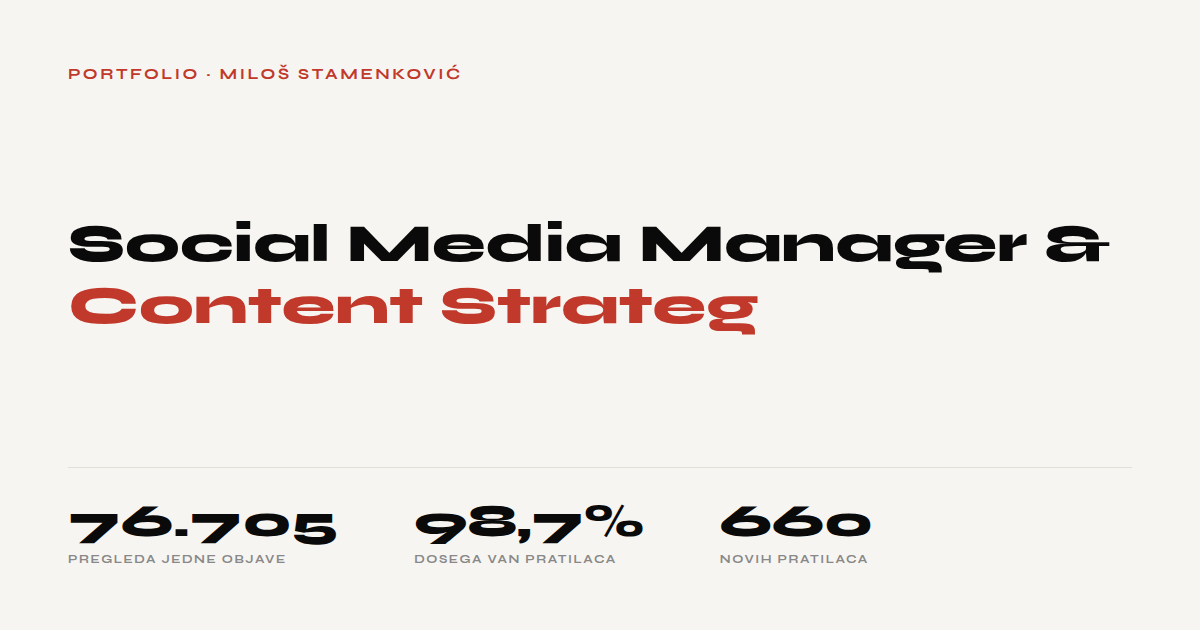
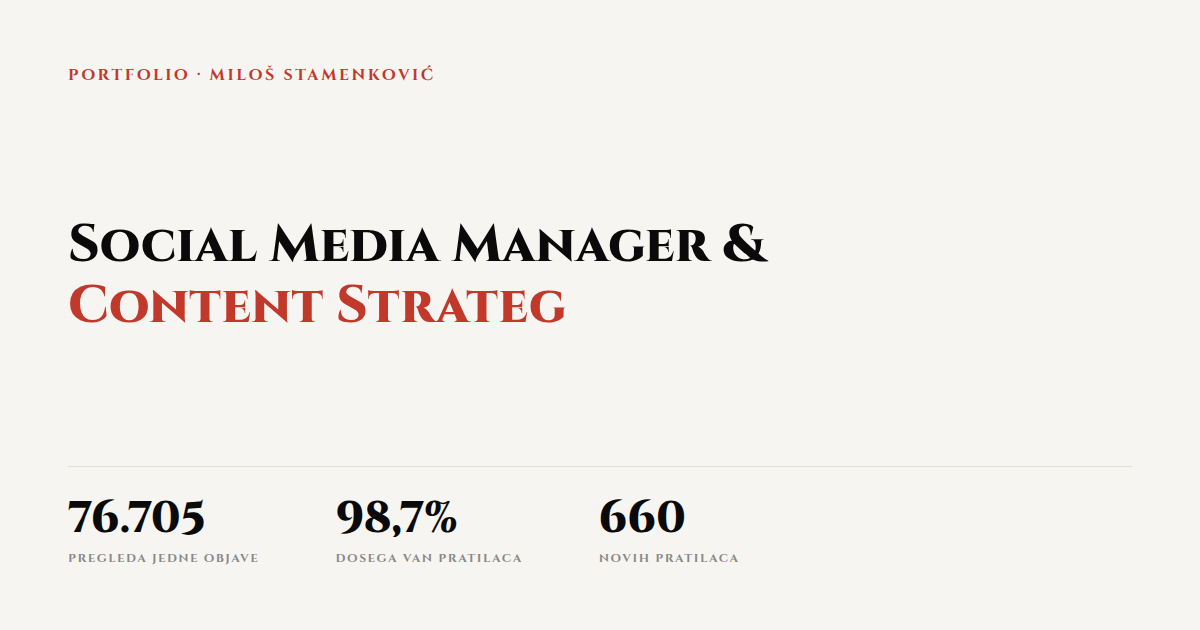
feat: font naslova Syne -> Cinzel
Odluka vlasnika sajta posle pregleda punog rendera, ne samo hero-a.

- layout.tsx: Cinzel (700, 800) sa subsets ['latin', 'latin-ext'].
  latin-ext je obavezan — sam latin ne nosi c c s z dj i dijakritike bi
  padale u fallback usred reci. Provereno glif po glif: svih 18 srpskih
  znakova se renderuje u Cinzelu, nijedan u fallbacku.
- CSS promenljiva --font-syne -> --font-display, fallback stack
  "var(--font-display), Cinzel, serif". Preimenovano u 12 fajlova +
  globals.css; u kodu nije ostala nijedna referenca na Syne, jer bi
  inace kod lagao o sebi.
- public/og.png regenerisan u Cinzelu — inace bi link preview pokazivao
  jedan font a sajt drugi.
- CLAUDE.md: zapisano da je Cinzel svesna odluka, da je obavezan
  latin-ext, i da gubitak kontrasta na mikro-labelama (eyebrow, badge,
  stat-label, pilule, nav) nije bug nego prihvacena posledica toga sto
  Cinzel nema mala slova — da se ne "popravlja" vracanjem na sans-serif.

Provereno: build prolazi, nula overflow-a na 375px i 1440px, case slika
se ucitava, nula dijakritika u fallbacku.

Claude-Session: https://claude.ai/code/session_0178xDF7jtNgtmNz2Xb6VQxf

diff --git a/components/sections/Work.tsx b/components/sections/Work.tsx
@@ -181,7 +181,7 @@ function FeaturedCard({ p, i }: { p: Project; i: number }) {
       <p className="badge">{p.badge}</p>
       <h3
         style={{
-          fontFamily: 'var(--font-syne), Syne, sans-serif',
+          fontFamily: 'var(--font-display), Cinzel, serif',
           fontWeight: 800,
           fontSize: 'clamp(18px, 4.6vw, 26px)',
           color: '#fff',
@@ -196,7 +196,7 @@ function FeaturedCard({ p, i }: { p: Project; i: number }) {
           fontSize: 11,
           color: 'rgba(255,255,255,0.38)',
           marginBottom: 20,
-          fontFamily: 'var(--font-syne), Syne, sans-serif',
+          fontFamily: 'var(--font-display), Cinzel, serif',
           letterSpacing: '0.06em',
           textTransform: 'uppercase',
         }}
@@ -265,7 +265,7 @@ function FeaturedCard({ p, i }: { p: Project; i: number }) {
       <p
         style={{
           fontSize: 9,
-          fontFamily: 'var(--font-syne), Syne, sans-serif',
+          fontFamily: 'var(--font-display), Cinzel, serif',
           fontWeight: 700,
           letterSpacing: '0.12em',
           textTransform: 'uppercase',
@@ -330,7 +330,7 @@ export default function Work() {
                 <p className="badge">{p.badge}</p>
                 <h3
                   style={{
-                    fontFamily: 'var(--font-syne), Syne, sans-serif',
+                    fontFamily: 'var(--font-display), Cinzel, serif',
                     fontWeight: 800,
                     fontSize: 17,
                     color: 'var(--ink)',
@@ -344,7 +344,7 @@ export default function Work() {
                     fontSize: 10,
                     color: 'var(--ink-3)',
                     marginBottom: 14,
-                    fontFamily: 'var(--font-syne), Syne, sans-serif',
+                    fontFamily: 'var(--font-display), Cinzel, serif',
                     letterSpacing: '0.06em',
                     textTransform: 'uppercase',
                   }}
@@ -379,7 +379,7 @@ export default function Work() {
                 <p
                   style={{
                     fontSize: 9,
-                    fontFamily: 'var(--font-syne), Syne, sans-serif',
+                    fontFamily: 'var(--font-display), Cinzel, serif',
                     fontWeight: 700,
                     letterSpacing: '0.12em',
                     textTransform: 'uppercase',

diff --git a/app/globals.css b/app/globals.css
@@ -28,7 +28,7 @@ body {
 }
 
 .eyebrow {
-  font-family: var(--font-syne), 'Syne', sans-serif;
+  font-family: var(--font-display), 'Cinzel', serif;
   font-size: 10px;
   font-weight: 700;
   letter-spacing: 0.14em;
@@ -38,7 +38,7 @@ body {
 }
 
 .section-title {
-  font-family: var(--font-syne), 'Syne', sans-serif;
+  font-family: var(--font-display), 'Cinzel', serif;
   font-weight: 800;
   font-size: 42px;
   line-height: 1.15;
@@ -84,7 +84,7 @@ body {
 }
 
 .badge {
-  font-family: var(--font-syne), 'Syne', sans-serif;
+  font-family: var(--font-display), 'Cinzel', serif;
   font-size: 9px;
   font-weight: 700;
   letter-spacing: 0.12em;
@@ -98,7 +98,7 @@ body {
   align-items: center;
   background: var(--red);
   color: #fff;
-  font-family: var(--font-syne), 'Syne', sans-serif;
+  font-family: var(--font-display), 'Cinzel', serif;
   font-size: 10px;
   font-weight: 700;
   letter-spacing: 0.1em;
@@ -112,7 +112,7 @@ body {
   align-items: center;
   background: var(--ink);
   color: rgba(255, 255, 255, 0.7);
-  font-family: var(--font-syne), 'Syne', sans-serif;
+  font-family: var(--font-display), 'Cinzel', serif;
   font-size: 10px;
   font-weight: 700;
   letter-spacing: 0.1em;
@@ -127,7 +127,7 @@ body {
   background: transparent;
   color: var(--ink-3);
   border: 1px solid var(--paper-3);
-  font-family: var(--font-syne), 'Syne', sans-serif;
+  font-family: var(--font-display), 'Cinzel', serif;
   font-size: 10px;
   font-weight: 700;
   letter-spacing: 0.1em;
@@ -137,7 +137,7 @@ body {
 }
 
 .stat-number {
-  font-family: var(--font-syne), 'Syne', sans-serif;
+  font-family: var(--font-display), 'Cinzel', serif;
   font-weight: 800;
   font-size: 32px;
   color: var(--ink);
@@ -146,7 +146,7 @@ body {
 }
 
 .stat-label {
-  font-family: var(--font-syne), 'Syne', sans-serif;
+  font-family: var(--font-display), 'Cinzel', serif;
   font-size: 9px;
   font-weight: 700;
   letter-spacing: 0.12em;

diff --git a/components/sections/Process.tsx b/components/sections/Process.tsx
@@ -86,7 +86,7 @@ export default function Process() {
               >
                 <span
                   style={{
-                    fontFamily: 'var(--font-syne), Syne, sans-serif',
+                    fontFamily: 'var(--font-display), Cinzel, serif',
                     fontWeight: 800,
                     fontSize: 14,
                     color: '#fff',
@@ -107,7 +107,7 @@ export default function Process() {
                 >
                   <h3
                     style={{
-                      fontFamily: 'var(--font-syne), Syne, sans-serif',
+                      fontFamily: 'var(--font-display), Cinzel, serif',
                       fontWeight: 800,
                       fontSize: 16,
                       color: 'var(--ink)',
@@ -120,7 +120,7 @@ export default function Process() {
                       style={{
                         fontSize: 11,
                         color: 'var(--red)',
-                        fontFamily: 'var(--font-syne), Syne, sans-serif',
+                        fontFamily: 'var(--font-display), Cinzel, serif',
                         fontWeight: 700,
                         letterSpacing: '0.08em',
                       }}

diff --git a/components/sections/Cover.tsx b/components/sections/Cover.tsx
@@ -26,7 +26,7 @@ export default function Cover() {
 
           <h1
             style={{
-              fontFamily: 'var(--font-syne), Syne, sans-serif',
+              fontFamily: 'var(--font-display), Cinzel, serif',
               fontWeight: 800,
               fontSize: 'clamp(36px, 7vw, 68px)',
               lineHeight: 1.1,
@@ -100,7 +100,7 @@ export default function Cover() {
                 fontSize: 11,
                 color: 'var(--ink-3)',
                 textDecoration: 'none',
-                fontFamily: 'var(--font-syne), Syne, sans-serif',
+                fontFamily: 'var(--font-display), Cinzel, serif',
                 letterSpacing: '0.1em',
                 textTransform: 'uppercase',
                 fontWeight: 700,
@@ -117,7 +117,7 @@ export default function Cover() {
                 fontSize: 11,
                 color: 'var(--ink-3)',
                 textDecoration: 'none',
-                fontFamily: 'var(--font-syne), Syne, sans-serif',
+                fontFamily: 'var(--font-display), Cinzel, serif',
                 letterSpacing: '0.1em',
                 textTransform: 'uppercase',
                 fontWeight: 700,

diff --git a/components/sections/Services.tsx b/components/sections/Services.tsx
@@ -75,7 +75,7 @@ export default function Services() {
             >
               <span
                 style={{
-                  fontFamily: 'var(--font-syne), Syne, sans-serif',
+                  fontFamily: 'var(--font-display), Cinzel, serif',
                   fontWeight: 800,
                   fontSize: 28,
                   color: 'var(--paper-3)',
@@ -89,7 +89,7 @@ export default function Services() {
               <div style={{ flex: 1 }}>
                 <h3
                   style={{
-                    fontFamily: 'var(--font-syne), Syne, sans-serif',
+                    fontFamily: 'var(--font-display), Cinzel, serif',
                     fontWeight: 800,
                     fontSize: 17,
                     color: 'var(--ink)',
@@ -103,7 +103,7 @@ export default function Services() {
                 </p>
                 <p
                   style={{
-                    fontFamily: 'var(--font-syne), Syne, sans-serif',
+                    fontFamily: 'var(--font-display), Cinzel, serif',
                     fontSize: 9,
                     fontWeight: 700,
                     letterSpacing: '0.12em',

diff --git a/components/sections/Reviews.tsx b/components/sections/Reviews.tsx
@@ -47,7 +47,7 @@ export default function Reviews() {
           <p
             style={{
               fontSize: 9,
-              fontFamily: 'var(--font-syne), Syne, sans-serif',
+              fontFamily: 'var(--font-display), Cinzel, serif',
               fontWeight: 700,
               letterSpacing: '0.14em',
               textTransform: 'uppercase',
@@ -78,7 +78,7 @@ export default function Reviews() {
               <p
                 style={{
                   fontSize: 9,
-                  fontFamily: 'var(--font-syne), Syne, sans-serif',
+                  fontFamily: 'var(--font-display), Cinzel, serif',
                   fontWeight: 700,
                   letterSpacing: '0.14em',
                   textTransform: 'uppercase',
@@ -90,7 +90,7 @@ export default function Reviews() {
               </p>
               <p
                 style={{
-                  fontFamily: 'var(--font-syne), Syne, sans-serif',
+                  fontFamily: 'var(--font-display), Cinzel, serif',
                   fontWeight: 800,
                   fontSize: 14,
                   color: 'var(--ink)',

diff --git a/components/Nav.tsx b/components/Nav.tsx
@@ -40,7 +40,7 @@ export default function Nav() {
     >
       <span
         style={{
-          fontFamily: 'var(--font-syne), Syne, sans-serif',
+          fontFamily: 'var(--font-display), Cinzel, serif',
           fontWeight: 800,
           fontSize: 15,
           color: '#f7f5f1',
@@ -56,7 +56,7 @@ export default function Nav() {
             key={id}
             onClick={() => scrollTo(id)}
             style={{
-              fontFamily: 'var(--font-syne), Syne, sans-serif',
+              fontFamily: 'var(--font-display), Cinzel, serif',
               fontSize: 10,
               fontWeight: 700,
               letterSpacing: '0.08em',
@@ -79,7 +79,7 @@ export default function Nav() {
       <button
         onClick={() => window.print()}
         style={{
-          fontFamily: 'var(--font-syne), Syne, sans-serif',
+          fontFamily: 'var(--font-display), Cinzel, serif',
           fontSize: 10,
           fontWeight: 700,
           letterSpacing: '0.08em',

diff --git a/app/layout.tsx b/app/layout.tsx
@@ -1,12 +1,14 @@
 import type { Metadata } from 'next'
-import { Syne, Inter } from 'next/font/google'
+import { Cinzel, Inter } from 'next/font/google'
 import './globals.css'
 import './print.css'
 
-const syne = Syne({
-  subsets: ['latin'],
+const cinzel = Cinzel({
+  // latin-ext je obavezan: nosi č ć š ž đ. Bez njega dijakritike
+  // padaju u fallback i lome se usred reči.
+  subsets: ['latin', 'latin-ext'],
   weight: ['700', '800'],
-  variable: '--font-syne',
+  variable: '--font-display',
   display: 'swap',
 })
 
@@ -59,7 +61,7 @@ export const metadata: Metadata = {
 export default function RootLayout({ children }: { children: React.ReactNode }) {
   return (
     <html lang="sr">
-      <body className={`${syne.variable} ${inter.variable}`}>{children}</body>
+      <body className={`${cinzel.variable} ${inter.variable}`}>{children}</body>
     </html>
   )
 }

diff --git a/components/sections/Contact.tsx b/components/sections/Contact.tsx
@@ -18,7 +18,7 @@ const contacts = [
 
 const cardLabel: React.CSSProperties = {
   fontSize: 9,
-  fontFamily: 'var(--font-syne), Syne, sans-serif',
+  fontFamily: 'var(--font-display), Cinzel, serif',
   fontWeight: 700,
   letterSpacing: '0.14em',
   textTransform: 'uppercase',
@@ -27,7 +27,7 @@ const cardLabel: React.CSSProperties = {
 }
 
 const cardValue: React.CSSProperties = {
-  fontFamily: 'var(--font-syne), Syne, sans-serif',
+  fontFamily: 'var(--font-display), Cinzel, serif',
   fontWeight: 800,
   fontSize: 14,
   color: 'var(--red)',
@@ -98,7 +98,7 @@ export default function Contact() {
         >
           <span
             style={{
-              fontFamily: 'var(--font-syne), Syne, sans-serif',
+              fontFamily: 'var(--font-display), Cinzel, serif',
               fontWeight: 800,
               fontSize: 22,
               color: '#fff',

diff --git a/components/sections/Reels.tsx b/components/sections/Reels.tsx
@@ -54,7 +54,7 @@ export default function Reels() {
               <div style={{ display: 'flex', alignItems: 'center', gap: 20 }}>
                 <span
                   style={{
-                    fontFamily: 'var(--font-syne), Syne, sans-serif',
+                    fontFamily: 'var(--font-display), Cinzel, serif',
                     fontSize: 9,
                     fontWeight: 700,
                     letterSpacing: '0.12em',
@@ -67,7 +67,7 @@ export default function Reels() {
                 </span>
                 <span
                   style={{
-                    fontFamily: 'var(--font-syne), Syne, sans-serif',
+                    fontFamily: 'var(--font-display), Cinzel, serif',
                     fontWeight: 800,
                     fontSize: 15,
                     color: f.dark ? 'var(--ink)' : '#fff',

diff --git a/components/sections/AITools.tsx b/components/sections/AITools.tsx
@@ -79,7 +79,7 @@ export default function AITools() {
               >
                 <span
                   style={{
-                    fontFamily: 'var(--font-syne), Syne, sans-serif',
+                    fontFamily: 'var(--font-display), Cinzel, serif',
                     fontWeight: 800,
                     fontSize: 11,
                     color: '#fff',
@@ -91,7 +91,7 @@ export default function AITools() {
               <div>
                 <h3
                   style={{
-                    fontFamily: 'var(--font-syne), Syne, sans-serif',
+                    fontFamily: 'var(--font-display), Cinzel, serif',
                     fontWeight: 800,
                     fontSize: 15,
                     color: 'var(--ink)',

diff --git a/components/sections/About.tsx b/components/sections/About.tsx
@@ -10,7 +10,7 @@ const A = {
 
 const cardLabel: React.CSSProperties = {
   fontSize: 9,
-  fontFamily: 'var(--font-syne), Syne, sans-serif',
+  fontFamily: 'var(--font-display), Cinzel, serif',
   fontWeight: 700,
   letterSpacing: '0.14em',
   textTransform: 'uppercase',
@@ -18,7 +18,7 @@ const cardLabel: React.CSSProperties = {
 }
 
 const cardTitle: React.CSSProperties = {
-  fontFamily: 'var(--font-syne), Syne, sans-serif',
+  fontFamily: 'var(--font-display), Cinzel, serif',
   fontWeight: 800,
   fontSize: 16,
   marginBottom: 8,
